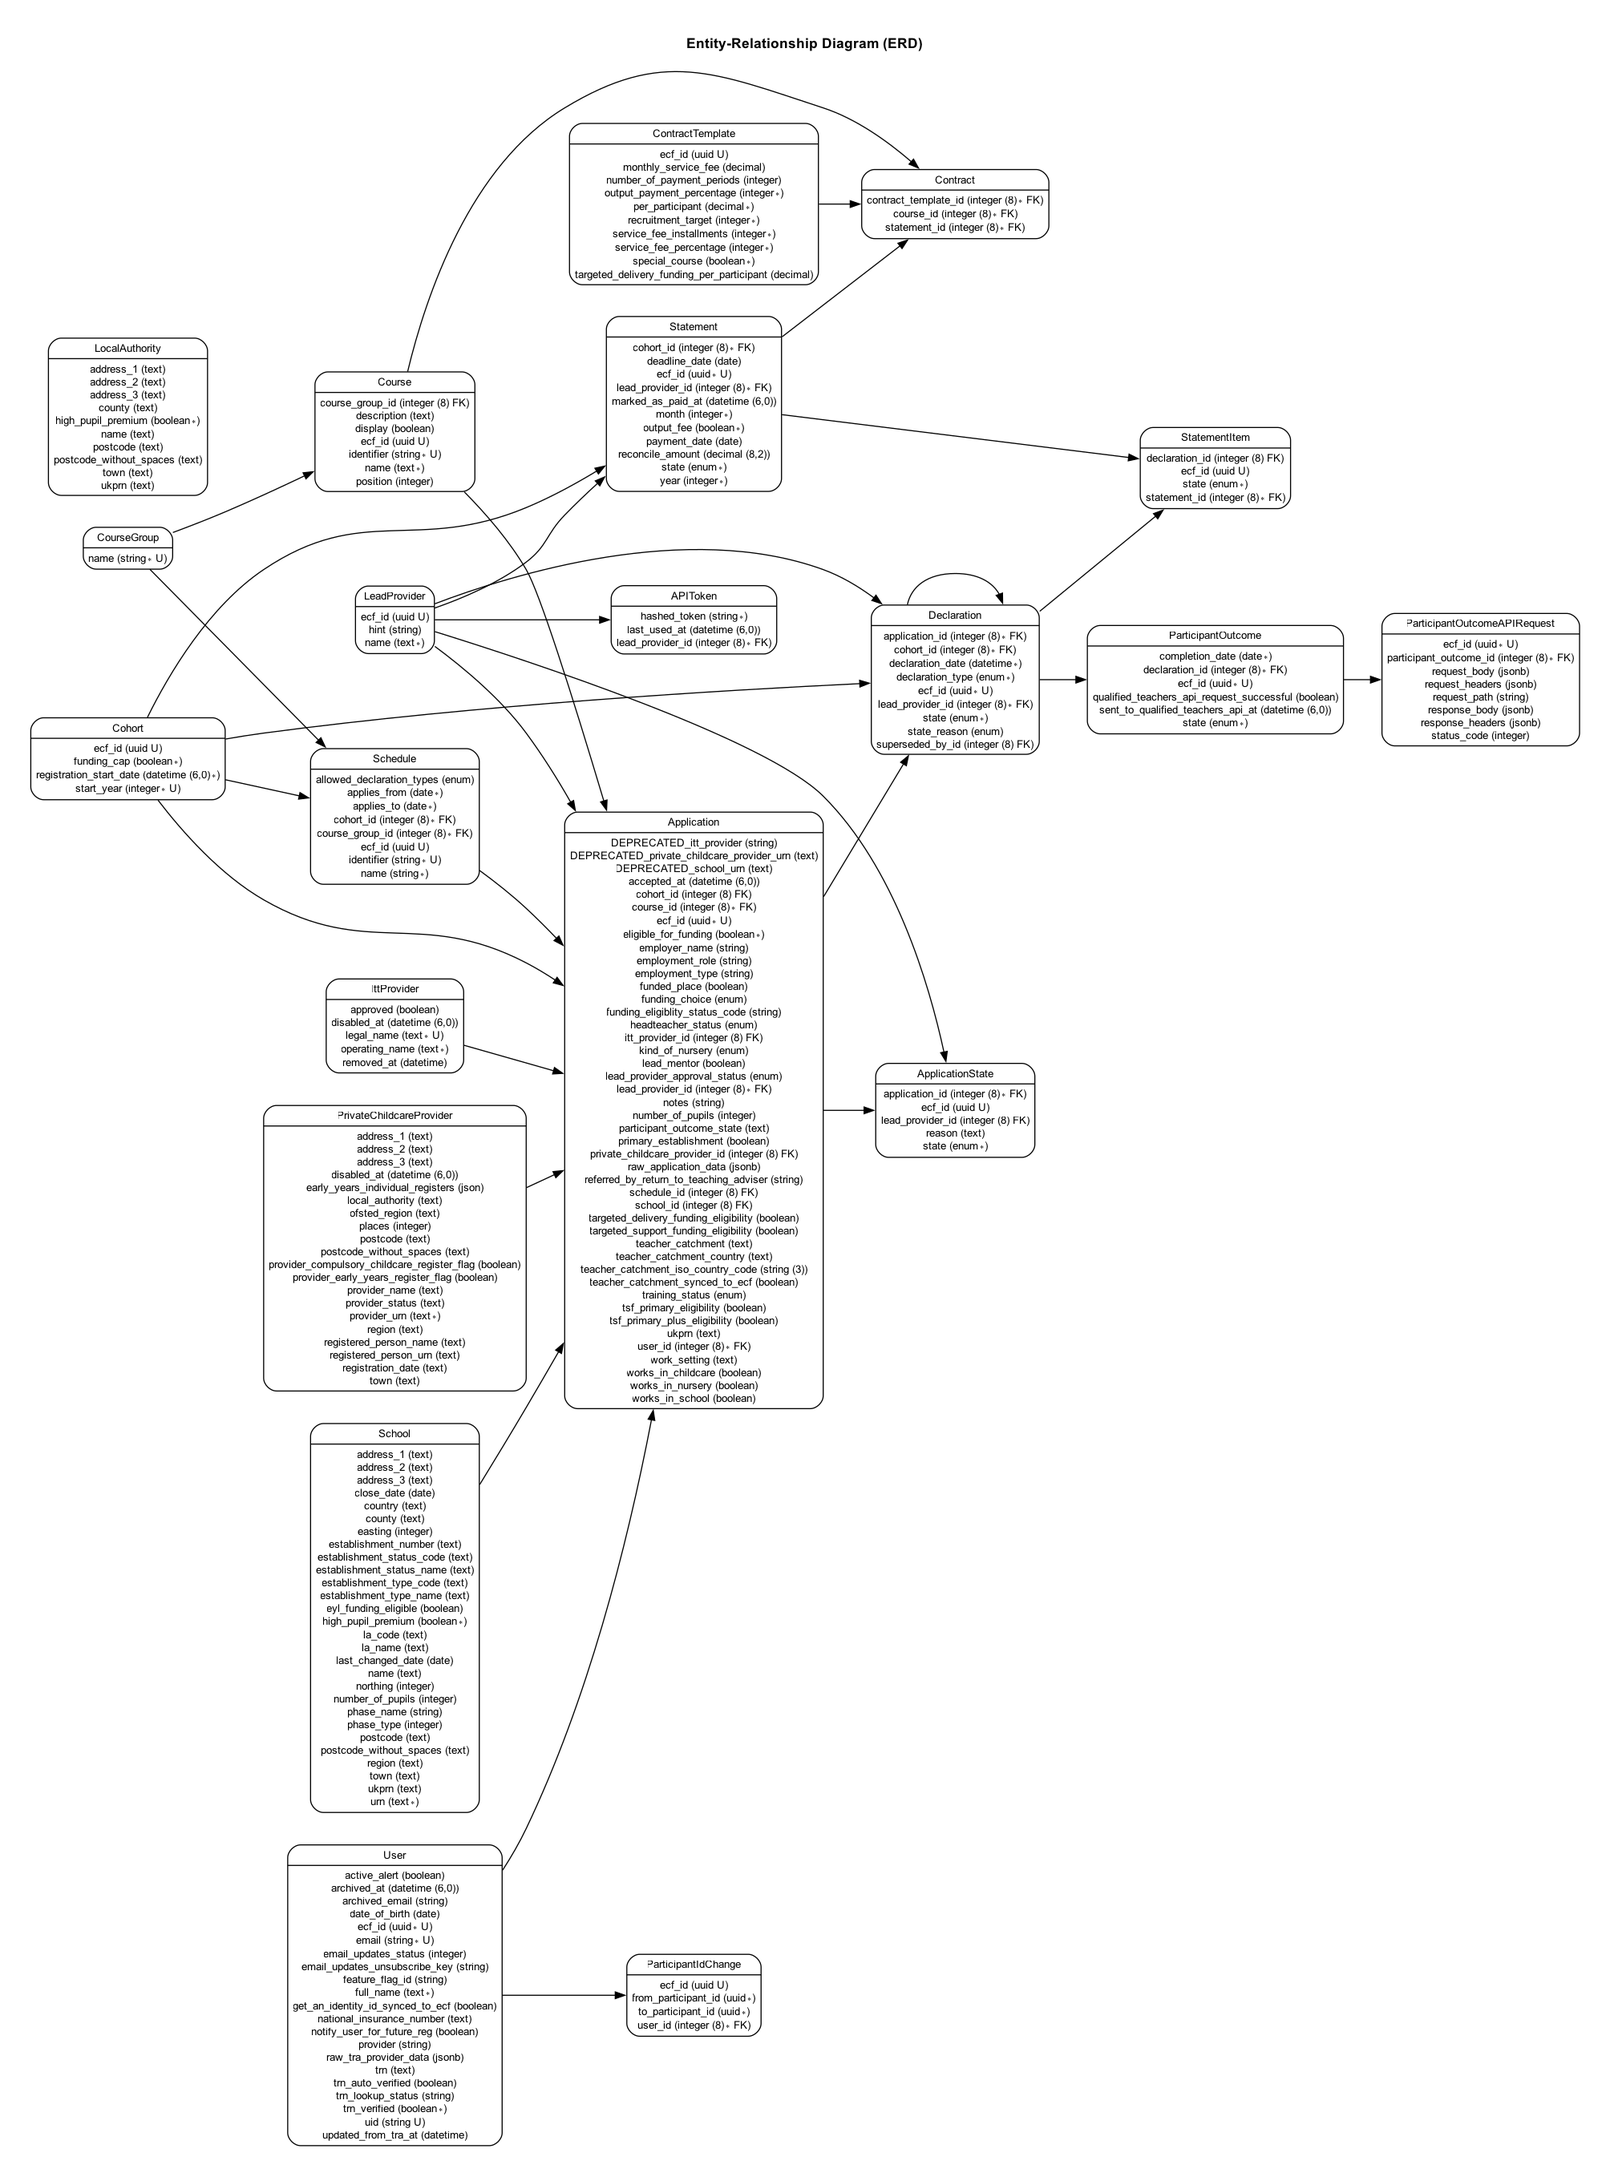
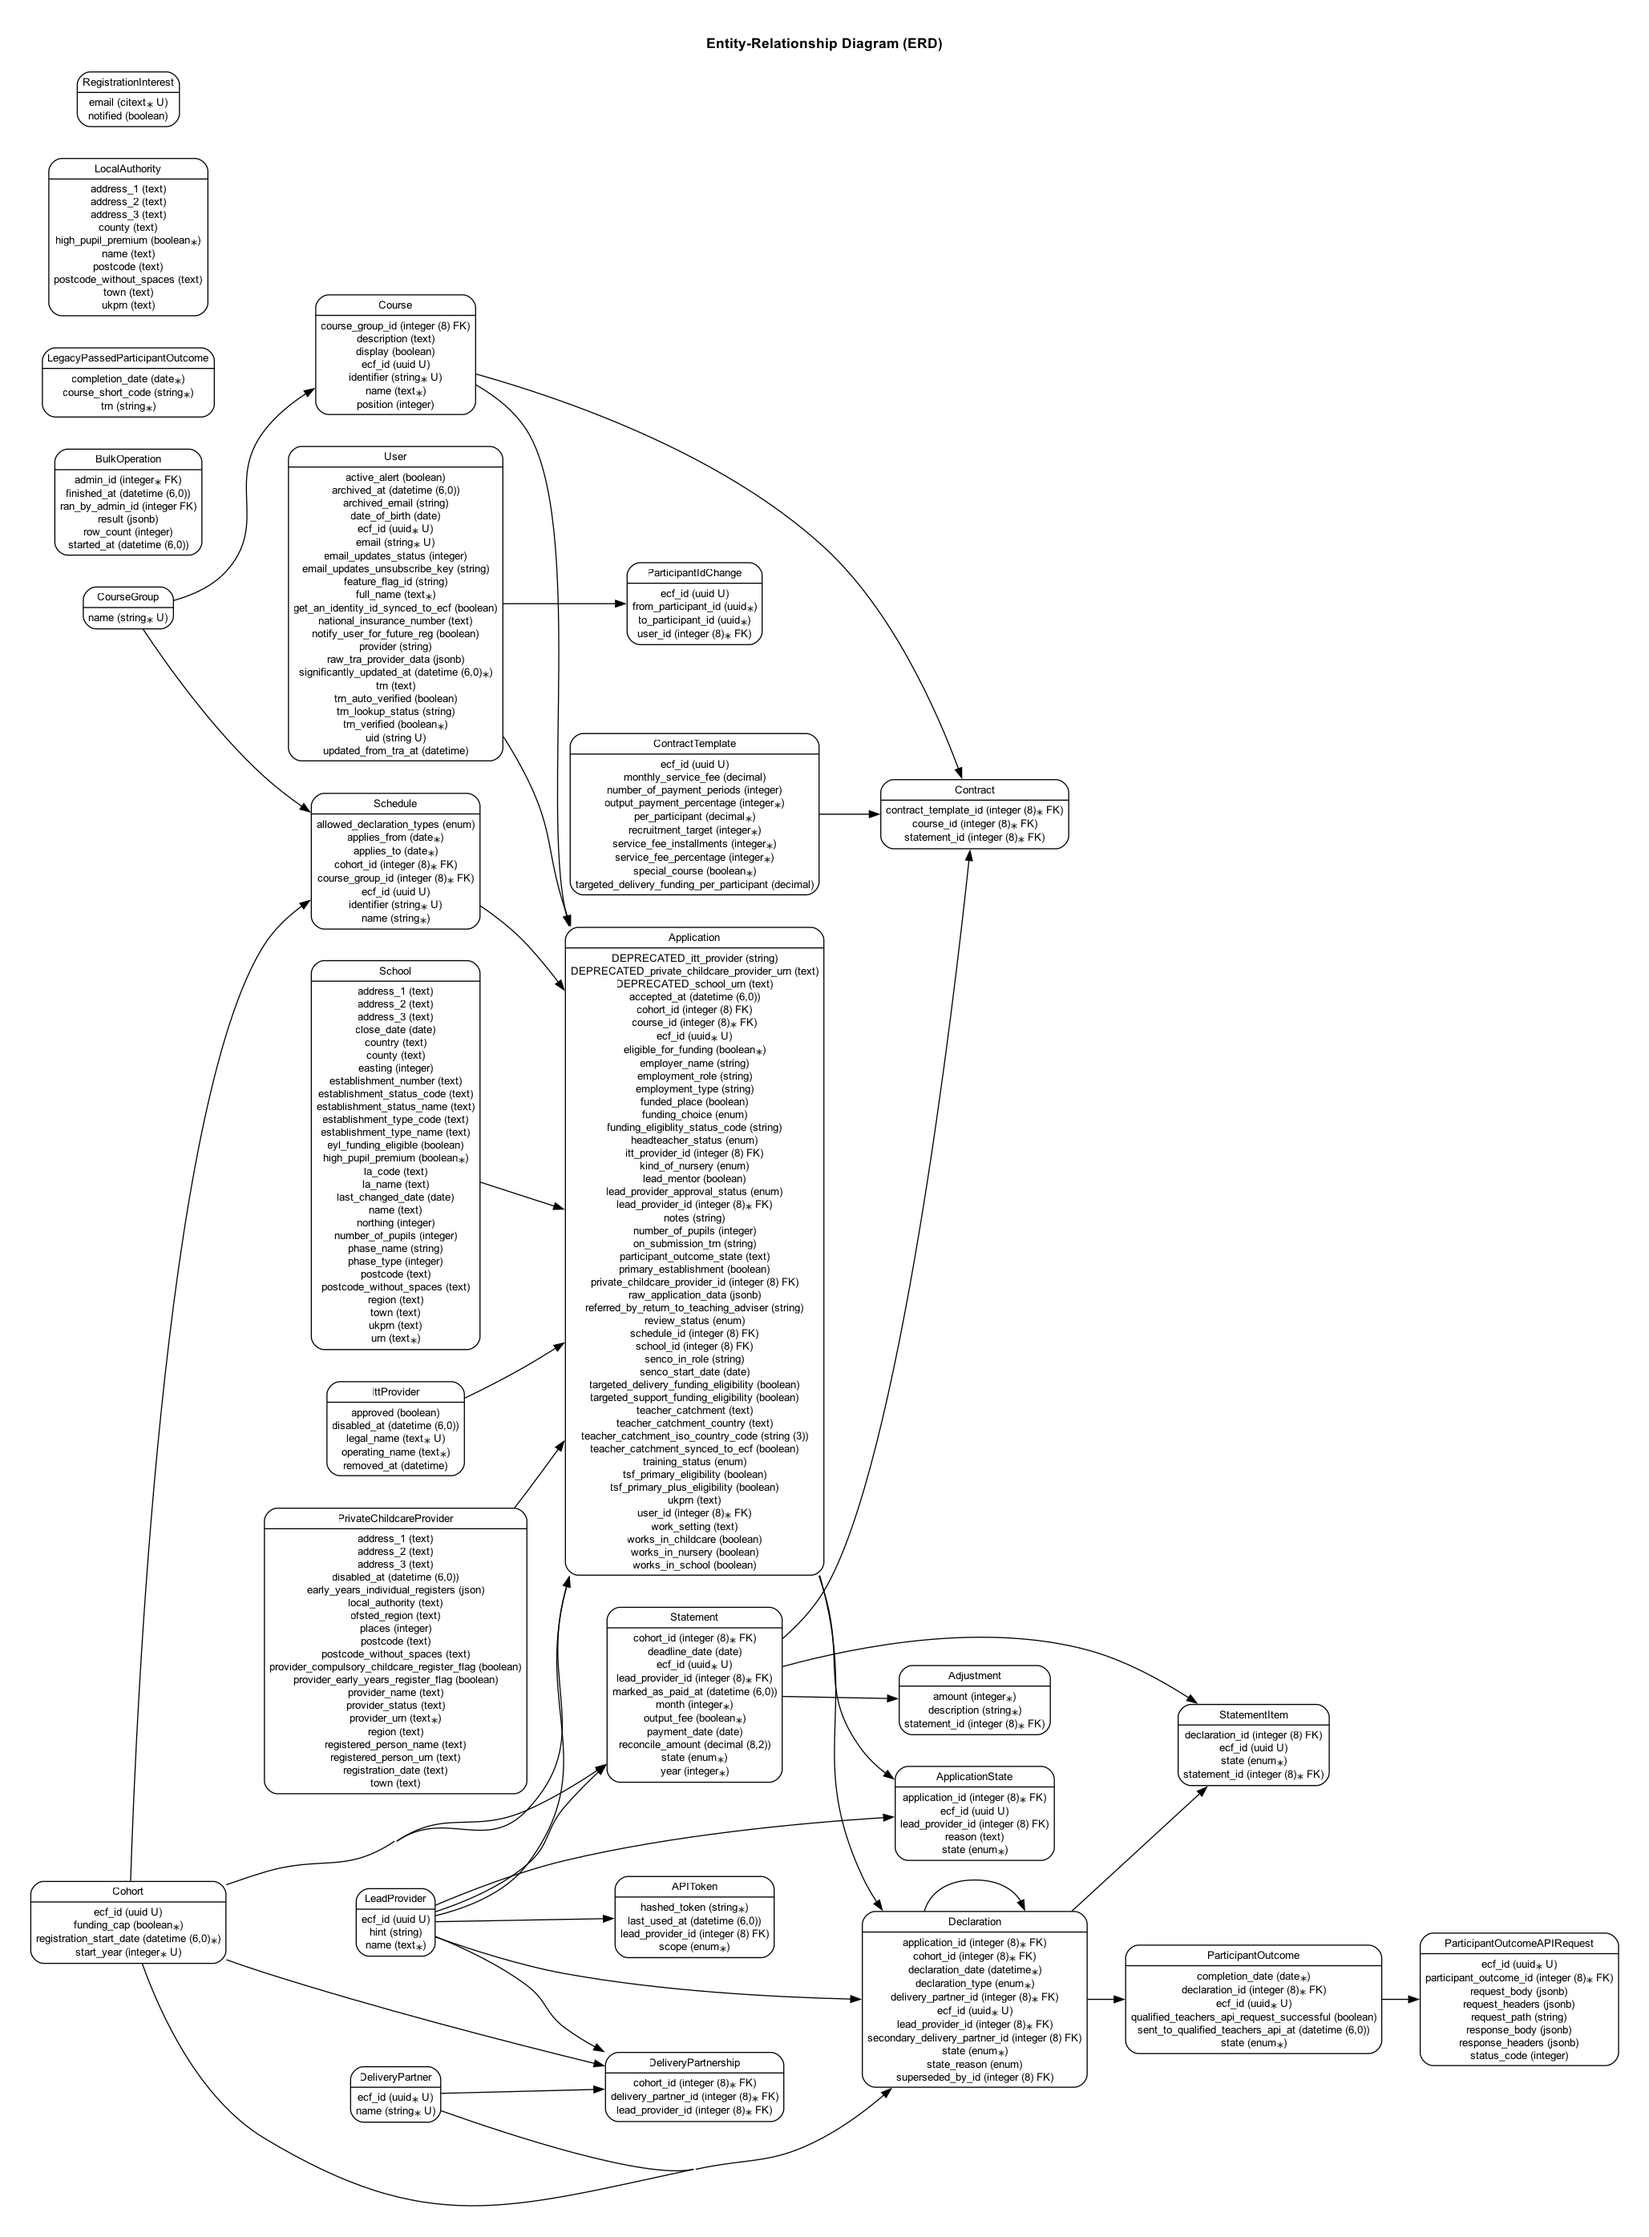
[CPDNPQ-2913] update data model doc

diff --git a/docs/data_model.md b/docs/data_model.md
@@ -6,7 +6,7 @@
 
 ## 1. Introduction
 
-This document provides an overview of the data model for the NPQ application. It details the primary entities, their relationships, and the data flow within the application. This model is essential for developers and stakeholders to understand how data is structured, stored, and retrieved.
+This document provides an overview of the data model for the NPQ application. It details the primary entities, their relationships, and the data flow within the application. This model is for developers and stakeholders to understand how data is structured, stored, and retrieved.
 
 ## 2. Purpose of the Data Model
 
@@ -14,7 +14,7 @@ The data model for storing NPQ data is designed to:
 
 - Facilitate efficient data storage and retrieval.
 - Enable the business logic of the application by structuring data relationships.
-- Support data integrity, scalability, and performance optimization.
+- Support data integrity, scalability, and performance optimisation.
 
 ## 3. Entity-Relationship Diagram (ERD)
 
@@ -31,34 +31,39 @@ This diagram represents our current understanding of the data models:
 
    `Application` captures various attributes related to a user's employment, funding eligibility, and application status.
 
-2. **User** - Represents individuals applying for courses. Each `User` has an ID, email, and other identifying details, including a teacher reference number.
+1. **User** - Represents individuals applying for courses. Each `User` has an ID, email, and other identifying details, including a teacher reference number.
 
-3. **LeadProvider** - Provides a source for educational leads or courses. LeadProviders are linked to multiple entities:
+1. **LeadProvider** - Provides a source for educational leads or courses. LeadProviders are linked to multiple entities:
    - `Application` to associate a lead provider with specific applications.
    - `Declaration` to associate a lead provider with specific declarations.
    - `Statement` to track declarations and cohorts per provider.
    - `ApiToken` to allow access via API, with security tracking through hashed tokens and last used timestamps.
 
-4. **Course** - Represents educational courses available for application.
+1. **DeliveryPartner** - Represents the delivery partner for an application. They are linked to:
+   - `Declaration` - when a declaration is made, it is associated with a delivery partner, and optionally a secondary delivery partner.
+   - `LeadProvder` - a delivery partner can be associated with multiple lead providers.
+   - `Cohort` - a delivery partner can be associated with multiple cohorts.
+
+1. **Course** - Represents educational courses available for application.
    - Linked to `Application` to assign a course to an application.
-   - Connected to `CourseGroup` to organize courses by group and associate with `Schedule`.
+   - Connected to `CourseGroup` to organise courses by group and associate with `Schedule`.
 
-5. **Schedule** - Details the scheduling for different course groups and cohorts, including key dates like the start and application period for declarations.
+1. **Schedule** - Details the scheduling for different course groups and cohorts, including key dates like the start and application period for declarations.
 
-6. **Cohort** - Represents a group of participants starting in a given year. It links with:
+1. **Cohort** - Represents a group of participants starting in a given year. It links with:
    - `Application`, `Declaration`, `Schedule` and `Statement`, to track cohorts across applications, declarations, schedules and statements.
 
-7. **Declaration and Statement** - These entities track user declarations and statements associated with lead providers:
+1. **Declaration and Statement** - These entities track user declarations and statements associated with lead providers:
    - `Declaration` links to `Application`, `Cohort` and `ParticipantOutcome`, tracking users' declaration states and types.
    - `Statement` relates to `LeadProvider` and `Cohort` to represent payment deadlines, states, and reconciliation amounts.
 
-8. **Contract and ContractTemplate** - Defines the contractual relationships and terms related to statements and courses:
+1. **Contract and ContractTemplate** - Defines the contractual relationships and terms related to statements and courses:
    - `Contract` links `Statement`, `Course`, and `ContractTemplate`.
    - `ContractTemplate` captures detailed payment and service fee structures.
 
-9. **ParticipantOutcome** - Tracks user outcomes tied to declarations, including the outcome state and completion date.
+1. **ParticipantOutcome** - Tracks user outcomes tied to declarations, including the outcome state and completion date.
 
-10. **Auxiliary Entities**
+1. **Auxiliary Entities**
     - `School`, `PrivateChildcareProvider`, and `IttProvider` allow additional relationships with applications.
     - `ApiToken` enables secure API access for lead providers.
     - `ParticipantIdChange` keeps a record of changes in participant IDs for `User`.
@@ -75,7 +80,7 @@ This data model supports a structured system for NPQ applications, participant d
      - The `User` applying.
      - The specific `Course` and `Cohort` applied for.
      - A specific `Schedule` when the `Application` is accepted by a `LeadProvider` (related to timing and cohorts).
-     - Optional entities like `School`, `PrivateChildcareProvider`, and `IttProvider`, representing different organizational affiliations or employment details.
+     - Optional entities like `School`, `PrivateChildcareProvider`, and `IttProvider`, representing different organisational affiliations or employment details.
    - **Attributes**: The `Application` includes data on eligibility, funding, role, approval, and training status. This information is essential for tracking the participant's suitability and funding options.
 
    This application data flows to downstream entities that track the participant's progress and outcomes.
@@ -145,10 +150,10 @@ erDiagram
 
 ### 4.2. **Course Scheduling and Cohort Management**
 
-   - **Data Organization**: Courses (`Course`) are organized into `CourseGroup`s, which are further linked to specific `Schedule`s. `Schedule` connects each `CourseGroup` with `Cohort` entities that denote specific time frames, ensuring applications align with course timings.
+   - **Data Organisation**: Courses (`Course`) are organised into `CourseGroup`s, which are further linked to specific `Schedule`s. `Schedule` connects each `CourseGroup` with `Cohort` entities that denote specific time frames, ensuring applications align with course timings.
    - **Cohort Management**: The `Cohort` entity represents the year or session in which a group of participants starts. Each cohort can be associated with multiple applications and helps manage different program batches.
 
-   This organization ensures that courses are managed and tracked by cohorts and groups, making it easy to allocate schedules and track cohort-specific declarations and outcomes.
+   This organisation ensures that courses are managed and tracked by cohorts and groups, making it easy to allocate schedules and track cohort-specific declarations and outcomes.
 
 ```mermaid
 erDiagram
@@ -186,9 +191,9 @@ erDiagram
 
 ### 4.3. **Declaration and Statement Process**
 
-   - **Declarations**: As users participate in courses, they make progress and fulfill specific requirements represented by `Declaration` entities.
+   - **Declarations**: As users participate in courses, they make progress and fulfil specific requirements represented by `Declaration` entities.
      - **Attributes**: Each `Declaration` has a state (e.g., submitted, eligible, payable), type, and declaration date.
-     - **Association**: `Declaration` is linked to `Application`, allowing the system to track a participant's journey through different declarations.
+     - **Association**: `Declaration` is linked to `Application` (allowing the system to track a participant's journey through different declarations), and `DeliveryPartner`. A declaration can optionally have a secondary `DeliveryPartner`.
      - **Outcome Tracking**: A `ParticipantOutcome` entity links to `Declaration`, capturing the outcome and completion status of the user's declaration.
 
    - **Statements**: `Statement`s track financial aspects of user declarations for each `LeadProvider` and `Cohort`.
@@ -204,12 +209,16 @@ erDiagram
     StatementItem }|--|| Statement : ""
     StatementItem }|--|| Declaration : ""
 
+    DeliveryPartner ||--o{ Declaration : ""
+
     Declaration {
         uuid id
         uuid application_id
         string state
         string declaration_type
         date declaration_date
+        uuid delivery_partner_id
+        uuid secondary_delivery_partner_id
         datetime updated_at
     }
 
@@ -238,6 +247,11 @@ erDiagram
         date completion_date
         uuid declaration_id
         datetime created_at
+    }
+
+    DeliveryPartner {
+        uuid id
+        string name
     }
 ```
 
@@ -341,4 +355,4 @@ erDiagram
 
 ## 5. Notes
 
-* Document on `NPQ Contract` can be found [here](npq_contracts.md).
+* Details on NPQ Contracts can be found [here](npq_contracts.md).

diff --git a/docs/setup.md b/docs/setup.md
@@ -14,6 +14,7 @@
 - PostgreSQL
 - NodeJS 20.15.1
 - Yarn 1.22.x
+- Graphviz
 1. Run `bundle install` to install the gem dependencies
 1. Run `yarn` to install node dependencies
 1. Run `bin/rails db:setup` to set up the database development and test schemas, and seed with test data
